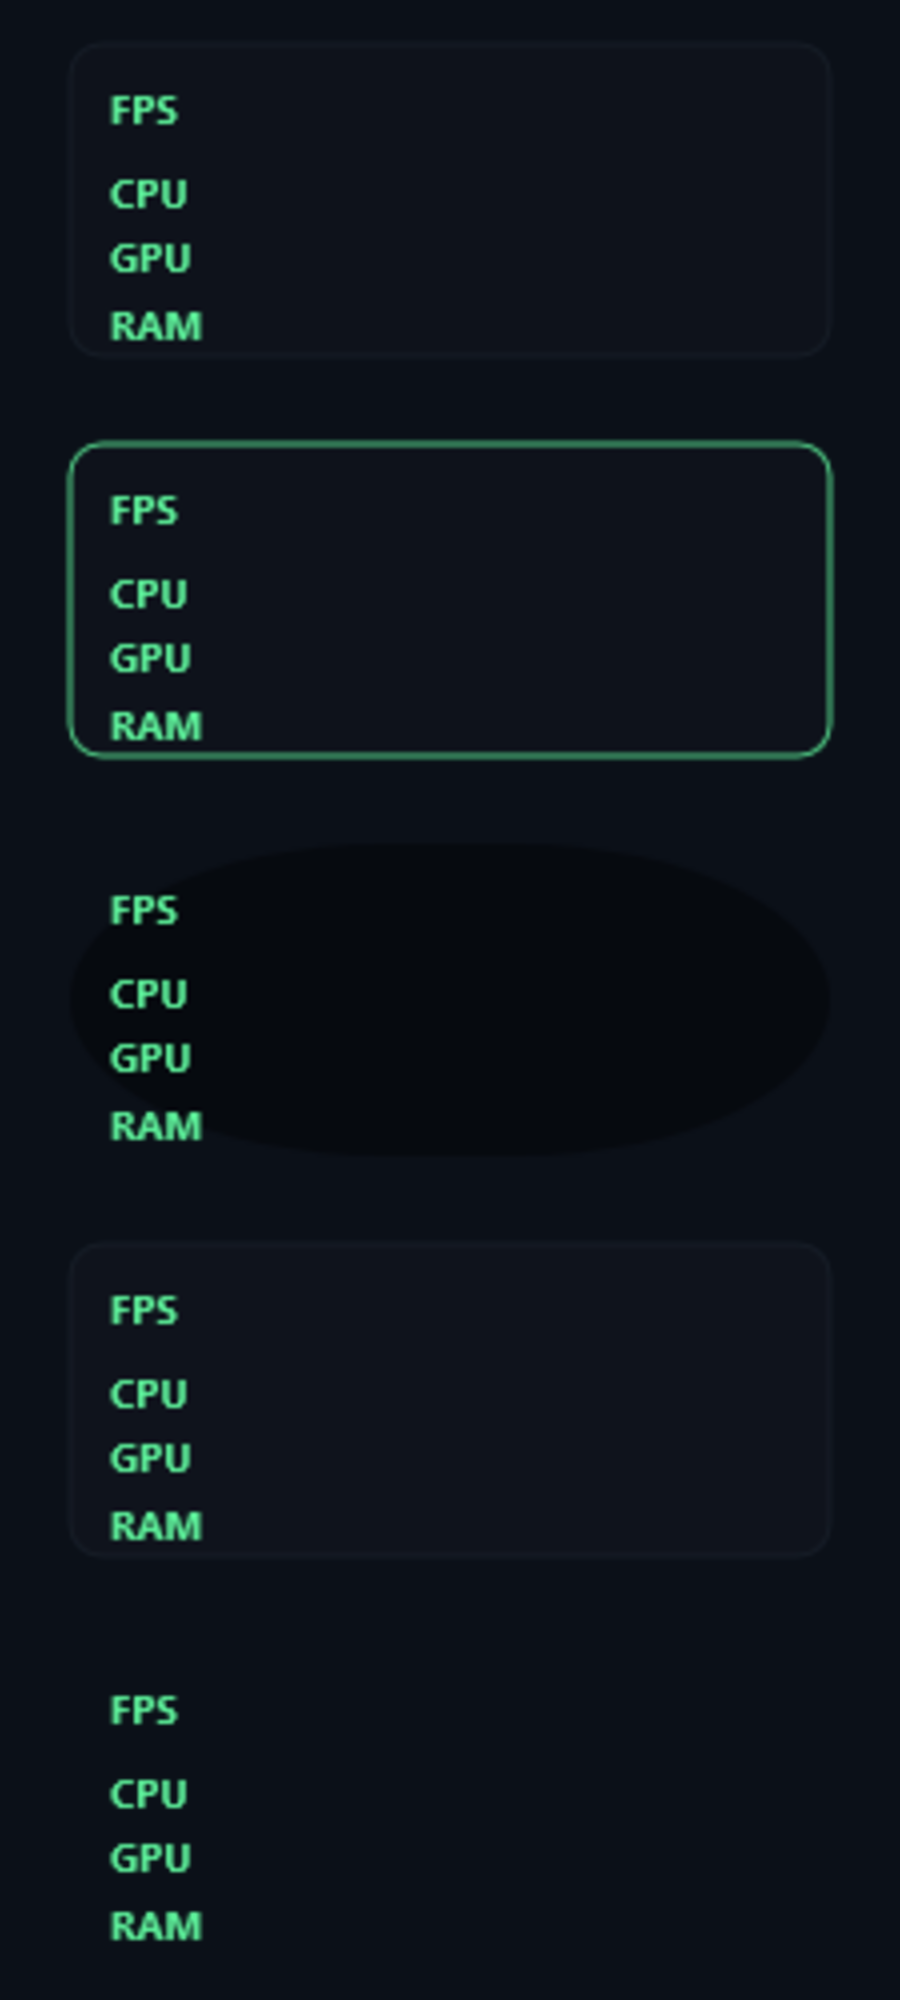
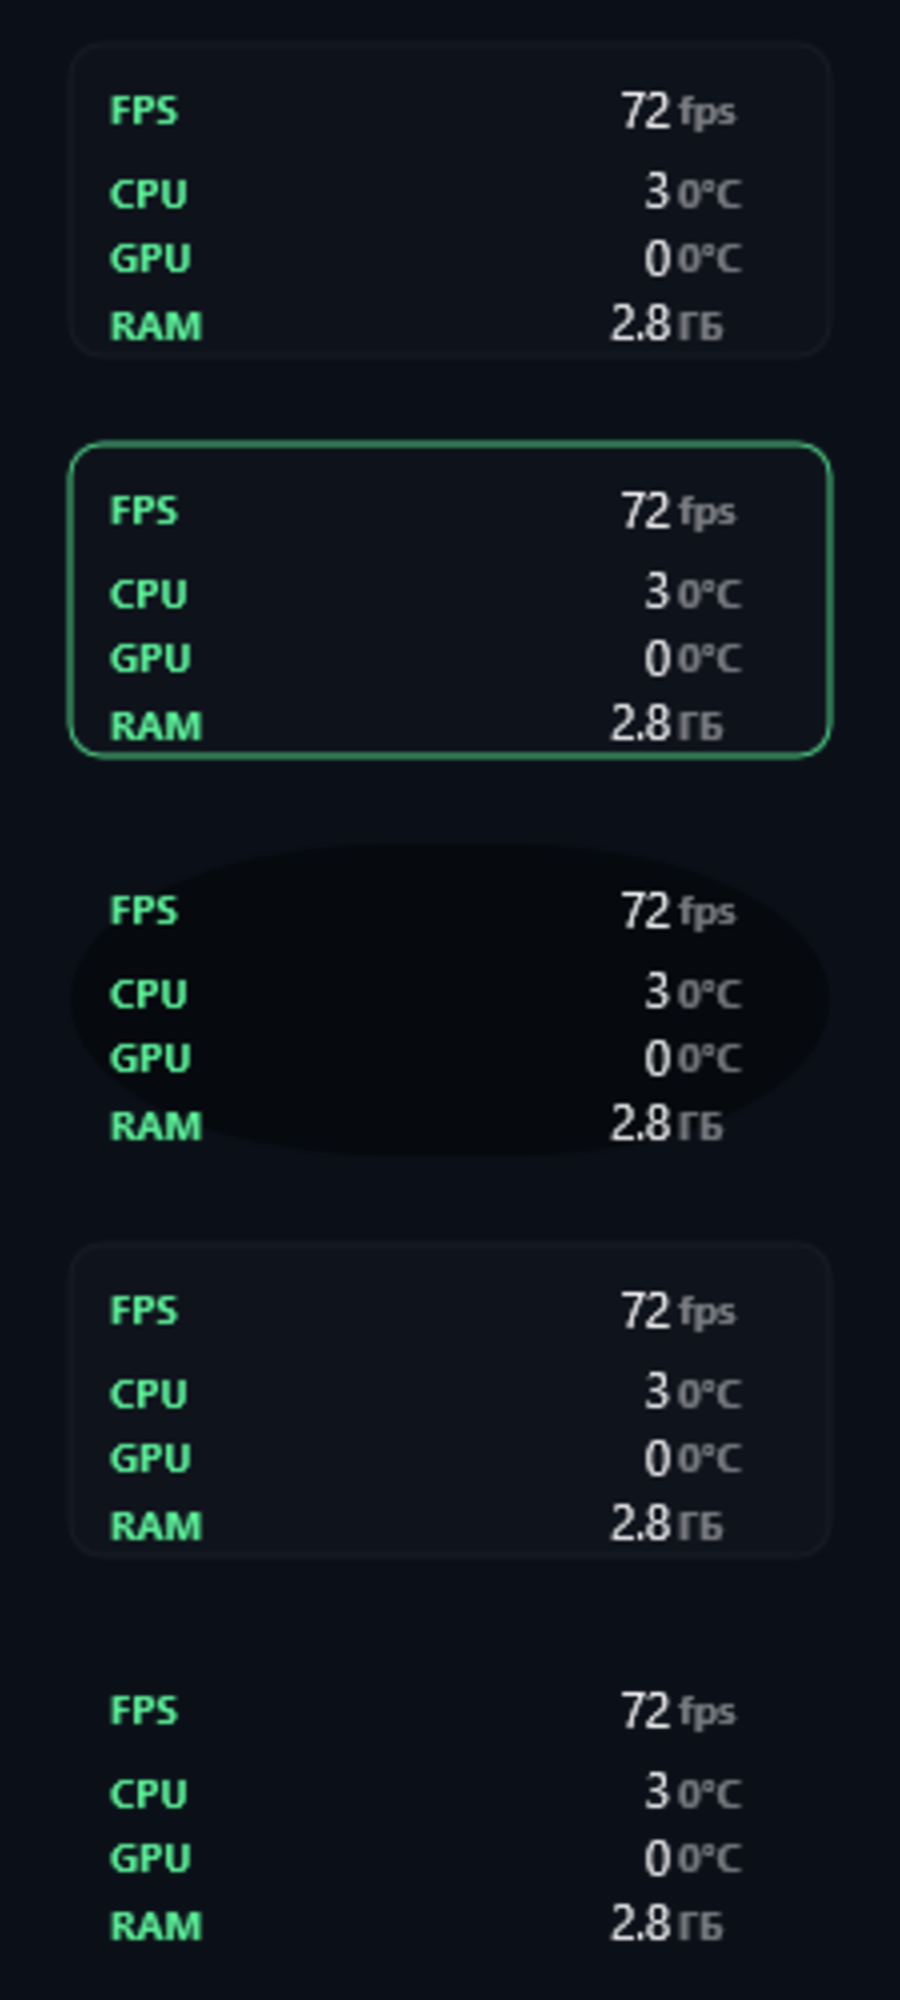
Оверлей: проценты и температура по отдельности, контрастные стили

diff --git a/app/platform/overlay_window.cpp b/app/platform/overlay_window.cpp
@@ -280,31 +280,48 @@ void OverlayWindow::drawBackground(const D2D1_RECT_F& frame, float scale)
         return;
     }
 
-    D2D1_COLOR_F fill = colorOf(m_theme.panel);
-    fill.a = m_settings.style == OverlayStyle::Terminal ? 0.92f : opacity;
+    const bool isTerminal = m_settings.style == OverlayStyle::Terminal;
+    const bool isNeon = m_settings.style == OverlayStyle::Neon;
+    const float radius = isTerminal ? 2.0f * scale : 10.0f * scale;
+
+    D2D1_COLOR_F fill = colorOf(isTerminal ? m_theme.background : m_theme.panel);
+    fill.a = isTerminal ? 0.94f : opacity;
     ID2D1SolidColorBrush* brush = nullptr;
     if (SUCCEEDED(m_target->CreateSolidColorBrush(fill, &brush))) {
-        m_target->FillRoundedRectangle(D2D1::RoundedRect(frame, 8.0f * scale, 8.0f * scale), brush);
+        m_target->FillRoundedRectangle(D2D1::RoundedRect(frame, radius, radius), brush);
         brush->Release();
     }
 
-    D2D1_COLOR_F border = colorOf(m_settings.style == OverlayStyle::Neon ? m_theme.accent : m_theme.line);
-    border.a = m_settings.style == OverlayStyle::Neon ? 0.85f : 0.5f;
+    D2D1_COLOR_F border = colorOf(isNeon ? m_theme.accent : m_theme.line);
+    border.a = isNeon ? 0.9f : 0.45f;
     if (SUCCEEDED(m_target->CreateSolidColorBrush(border, &brush))) {
-        m_target->DrawRoundedRectangle(D2D1::RoundedRect(frame, 8.0f * scale, 8.0f * scale), brush, 1.0f);
+        m_target->DrawRoundedRectangle(D2D1::RoundedRect(frame, radius, radius), brush,
+            isNeon ? 1.6f : 1.0f);
         brush->Release();
+    }
+
+    if (isNeon) {
+        // Второй контур с малой прозрачностью даёт мягкое свечение без размытия.
+        D2D1_COLOR_F glow = colorOf(m_theme.accent);
+        glow.a = 0.18f;
+        if (SUCCEEDED(m_target->CreateSolidColorBrush(glow, &brush))) {
+            m_target->DrawRoundedRectangle(D2D1::RoundedRect(
+                D2D1::RectF(frame.left - 2.0f, frame.top - 2.0f, frame.right + 2.0f, frame.bottom + 2.0f),
+                radius + 2.0f, radius + 2.0f), brush, 2.0f);
+            brush->Release();
+        }
     }
 }
 
 void OverlayWindow::drawRow(float y, float scale, const std::wstring& key, const std::wstring& value,
-    const std::wstring& unit, bool emphasize)
+    const std::wstring& secondary, bool emphasize)
 {
     // Колонки считаются от рамки плитки, а не от края экрана: иначе подпись уходит
     // в левый угол, а число — в правый край монитора.
     const float left = m_contentRect.left + 10.0f * scale;
     const float right = m_contentRect.right - 10.0f * scale;
-    const float unitWidth = unit.empty() ? 0.0f : 30.0f * scale;
-    const float valueRight = right - unitWidth;
+    const float secondaryWidth = secondary.empty() ? 0.0f : 52.0f * scale;
+    const float valueRight = right - secondaryWidth;
 
     ID2D1SolidColorBrush* brush = nullptr;
     if (SUCCEEDED(m_target->CreateSolidColorBrush(colorOf(m_theme.accent), &brush))) {
@@ -316,12 +333,13 @@ void OverlayWindow::drawRow(float y, float scale, const std::wstring& key, const
     const float valueOpacity = emphasize ? 1.0f : 0.94f;
     if (SUCCEEDED(m_target->CreateSolidColorBrush(D2D1::ColorF(1.0f, 1.0f, 1.0f, valueOpacity), &brush))) {
         m_target->DrawTextW(value.data(), static_cast<UINT32>(value.size()), m_smallFormat,
-            D2D1::RectF(valueRight - 78.0f * scale, y, valueRight, y + 16.0f * scale), brush);
+            D2D1::RectF(valueRight - 108.0f * scale, y, valueRight, y + 16.0f * scale), brush);
         brush->Release();
     }
 
-    if (!unit.empty() && SUCCEEDED(m_target->CreateSolidColorBrush(D2D1::ColorF(1.0f, 1.0f, 1.0f, 0.45f), &brush))) {
-        m_target->DrawTextW(unit.data(), static_cast<UINT32>(unit.size()), m_keyFormat,
+    if (!secondary.empty()
+        && SUCCEEDED(m_target->CreateSolidColorBrush(D2D1::ColorF(1.0f, 1.0f, 1.0f, 0.45f), &brush))) {
+        m_target->DrawTextW(secondary.data(), static_cast<UINT32>(secondary.size()), m_keyFormat,
             D2D1::RectF(valueRight + 2.0f * scale, y, right + 4.0f * scale, y + 16.0f * scale), brush);
         brush->Release();
     }
@@ -384,23 +402,33 @@ void OverlayWindow::drawPlates(float scale)
     float y = top + 8.0f * scale;
     const float lineHeight = 16.5f * scale;
 
-    const std::wstring fps = std::to_wstring(static_cast<int>(std::lround(m_fps.currentFps)));
-    drawRow(y, scale, wideText(m_settings.labels[0]), fps, L"fps", true);
+    const auto temperature = [this](MetricId id) {
+        const double value = m_store.value(id);
+        return value > 0.0 ? std::to_wstring(static_cast<int>(std::lround(value))) + L" °C"
+                           : std::wstring(L"—");
+    };
+
+    wchar_t buffer[32]{};
+    swprintf_s(buffer, L"%d fps", static_cast<int>(std::lround(m_fps.currentFps)));
+    drawRow(y, scale, wideText(m_settings.labels[0]), buffer, std::wstring(), true);
     y += lineHeight + 4.0f * scale;
 
-    drawRow(y, scale, wideText(m_settings.labels[1]),
-        std::to_wstring(static_cast<int>(std::lround(m_store.value(MetricId::CpuLoad)))),
-        std::to_wstring(static_cast<int>(std::lround(m_store.value(MetricId::CpuTemp)))) + L"°C", false);
+    swprintf_s(buffer, L"%d %%", static_cast<int>(std::lround(m_store.value(MetricId::CpuLoad))));
+    drawRow(y, scale, wideText(m_settings.labels[1]), buffer, temperature(MetricId::CpuTemp), false);
     y += lineHeight;
 
-    drawRow(y, scale, wideText(m_settings.labels[2]),
-        std::to_wstring(static_cast<int>(std::lround(m_store.value(MetricId::GpuLoad)))),
-        std::to_wstring(static_cast<int>(std::lround(m_store.value(MetricId::GpuTemp)))) + L"°C", false);
+    swprintf_s(buffer, L"%d %%", static_cast<int>(std::lround(m_store.value(MetricId::GpuLoad))));
+    drawRow(y, scale, wideText(m_settings.labels[2]), buffer, temperature(MetricId::GpuTemp), false);
     y += lineHeight;
 
-    wchar_t ram[32]{};
-    swprintf_s(ram, L"%.1f", m_store.value(MetricId::RamUsed));
-    drawRow(y, scale, wideText(m_settings.labels[3]), ram, L"ГБ", false);
+    // Десятичная запятая: интерфейс приложения везде русский.
+    swprintf_s(buffer, L"%.1f ГБ", m_store.value(MetricId::RamUsed));
+    for (wchar_t* symbol = buffer; *symbol != L'\0'; ++symbol) {
+        if (*symbol == L'.') {
+            *symbol = L',';
+        }
+    }
+    drawRow(y, scale, wideText(m_settings.labels[3]), buffer, std::wstring(), false);
 }
 
 void OverlayWindow::drawLine(float scale)
